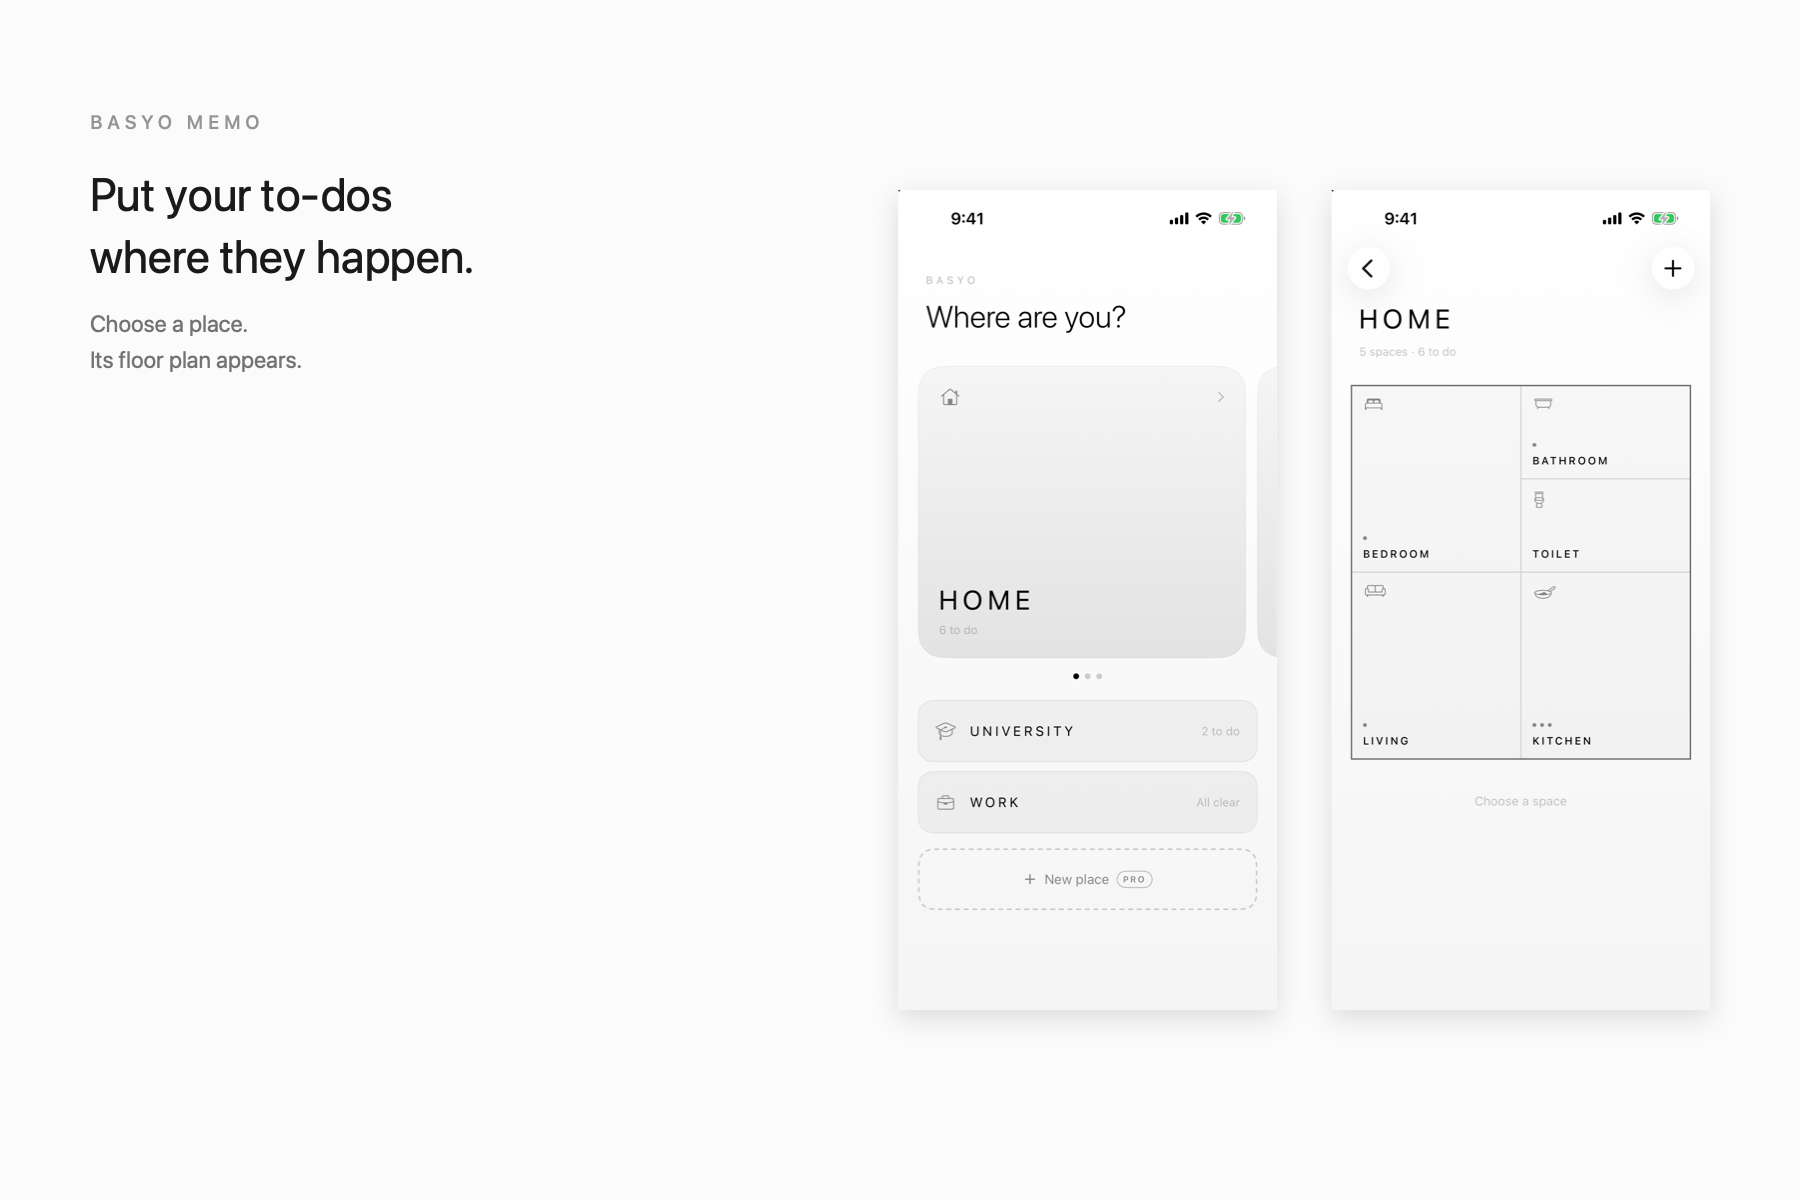
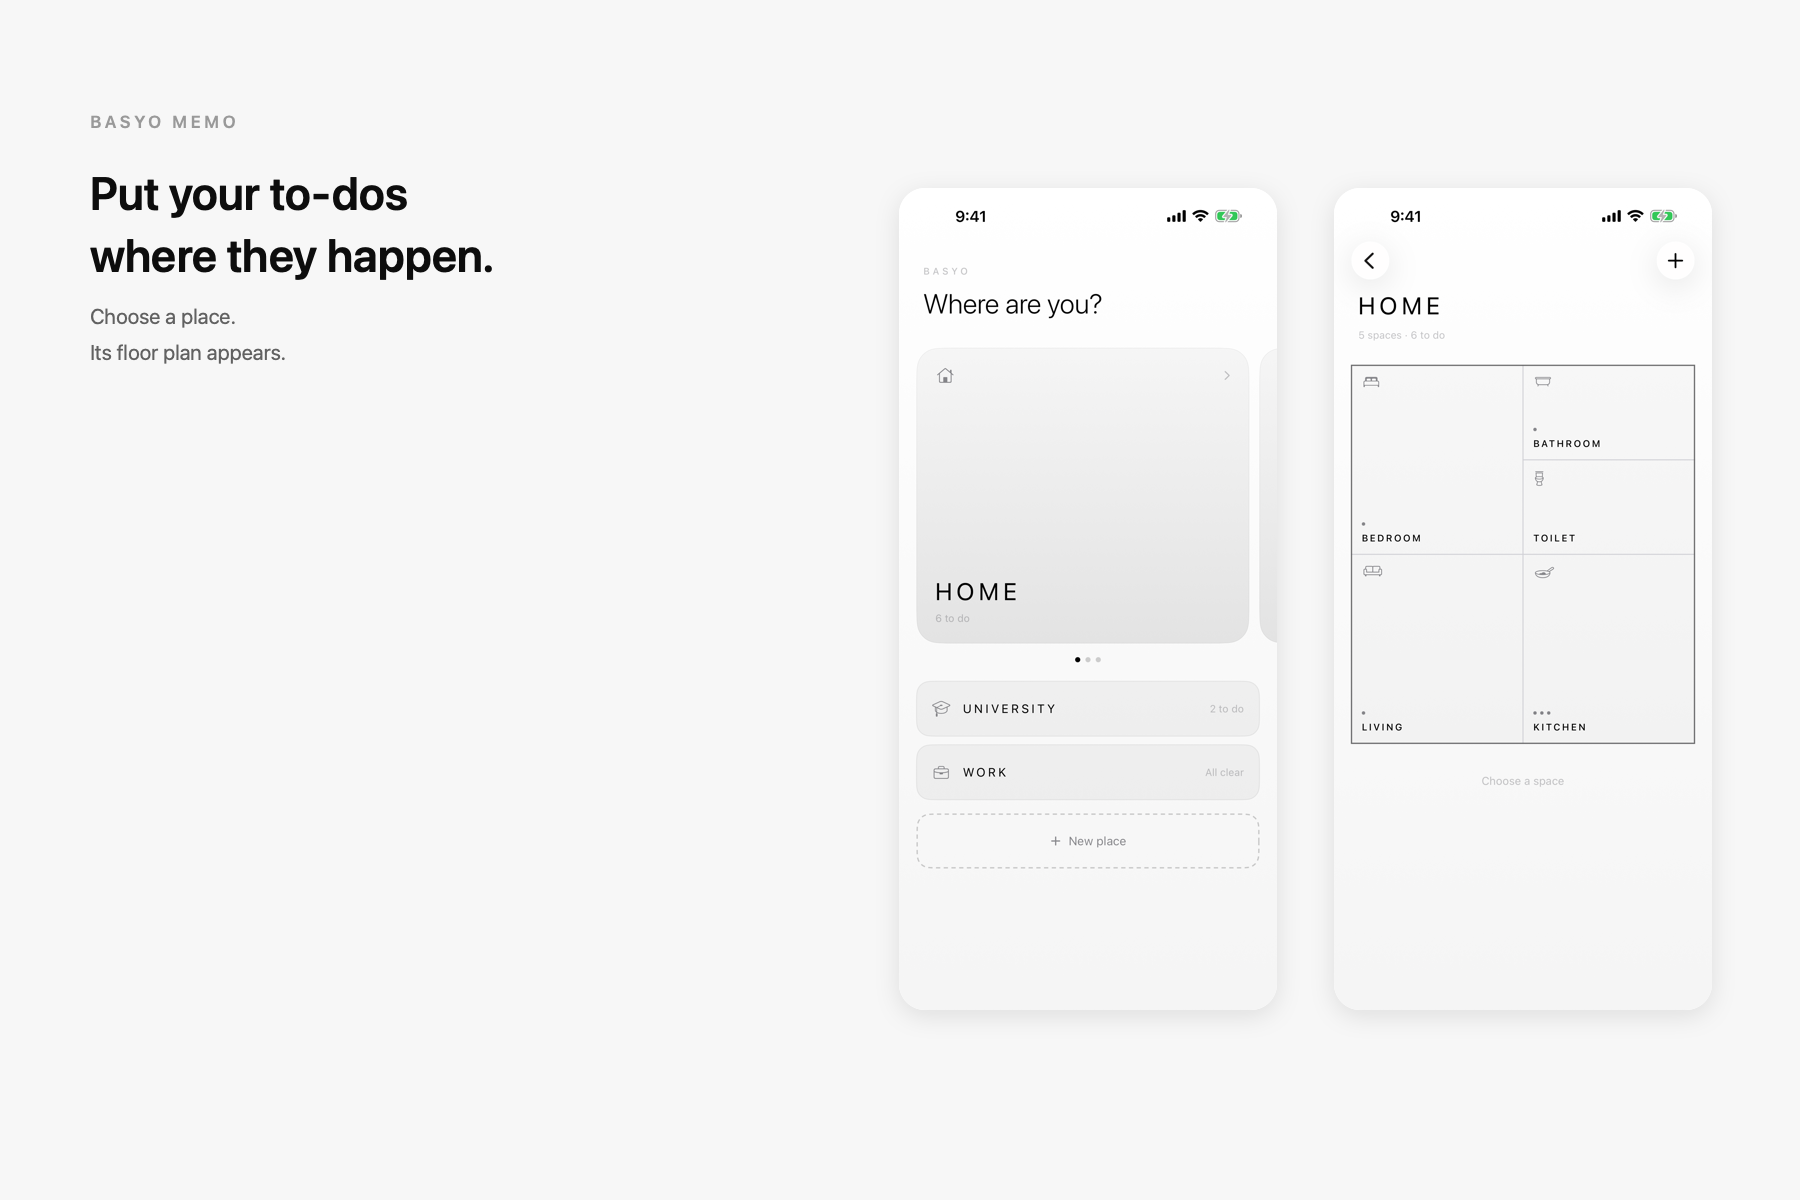
Devpost の素材を5つ版に更新する
ギャラリー画像を作り直した。1枚目は「新しい場所」の PRO バッジが
場所3つの時点で出ていたので外し、3枚目は「Three places free」と
課金画面の「up to 3 places」を5つ版に差し替えた。
3枚とも同じ生成スクリプトで書き出して体裁をそろえている。
説明文の three places と App Store の URL も更新した。

diff --git a/AppStore/devpost.md b/AppStore/devpost.md
@@ -58,7 +58,7 @@ Basyo Memo organizes tasks in three layers: Place → Space → Task.
 - Navigation uses SwiftUI's zoom transitions, so pressing a place expands it into
   its floor plan, and a room expands into its tasks — you feel like you are moving
   inward rather than switching screens.
-- RevenueCat powers a single non-consumable purchase that lifts the limit of three
+- RevenueCat powers a single non-consumable purchase that lifts the limit of five
   places.
 - Localized into English, Japanese and Traditional Chinese.
 
@@ -114,7 +114,7 @@ swift, swiftui, swiftdata, ios, xcode, revenuecat, storekit
 
 ## Try it
 
-- App Store: （公開後に URL を貼る）
+- App Store: https://apps.apple.com/app/id6815061856
 - Support & privacy: https://homare485.github.io/basyo-memo-site/
 - Judges: use the offer code below to unlock Pro for free.
   （承認後に発行したコードを貼る）
